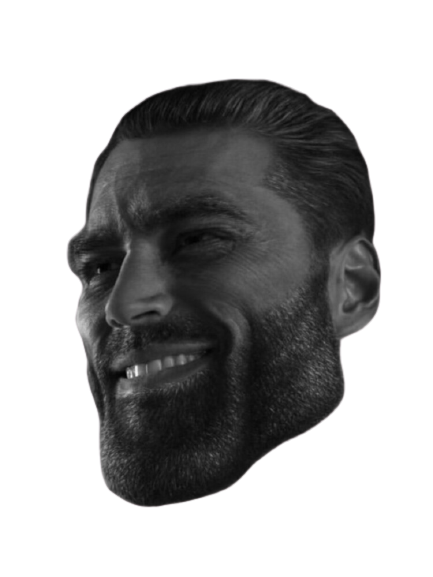
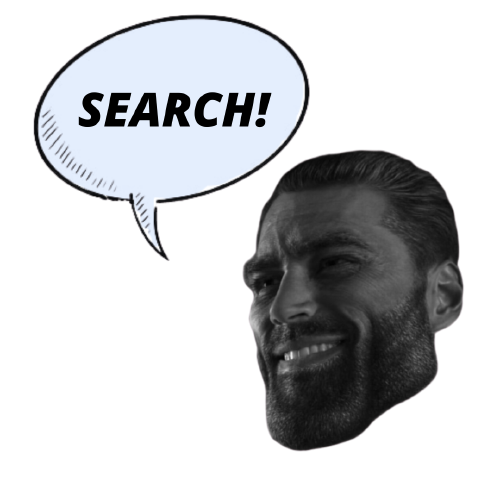
html and css file with responsive design pending

diff --git a/styles.css b/styles.css
@@ -1,3 +1,7 @@
+* {
+  margin: 0;
+  padding: 0;
+}
 body {
   background: rgb(239, 136, 46);
   background: linear-gradient(
@@ -11,24 +15,32 @@ h1 {
   color: white;
   font-family: "Montserrat", sans-serif;
   font-weight: 700;
-  font-size: 5rem;
+  font-size: 4rem;
+  margin-left: 3rem;
 }
 
 ol {
   color: white;
   font-family: "Montserrat", sans-serif;
   font-weight: 400;
-  font-size: 2rem;
+  font-size: 1.5rem;
+  margin-left: 5rem;
+  margin-top: 3rem;
+}
+
+img {
+  height: 21rem;
 }
 
 .input {
   font-size: 1.3rem;
   font-family: "Montserrat", sans-serif;
   font-weight: 400;
+  align-self: center;
 }
 .input-field {
-  width: 24rem;
-  height: 2rem;
+  width: 19rem;
+  height: 2.5rem;
   border-radius: 4px;
   background-color: white;
   border: 0px;
@@ -46,4 +58,23 @@ ol {
 
 .fa-search {
   color: white;
+}
+
+.container {
+  display: grid;
+  grid-template-columns: 50% 50%;
+  margin: 5rem 3rem 0;
+}
+
+.list {
+  grid-column: 1/2;
+  grid-row: 2/3;
+}
+
+li {
+  margin-bottom: 1rem;
+}
+
+.image {
+  justify-self: center;
 }

diff --git a/index.html b/index.html
@@ -29,13 +29,15 @@
         <a href="#">upgrade your browser</a> to improve your experience.
       </p>
     <![endif]-->
-    <header>
+    <main class="container">
       <h1>Nutrients <br />For The <br />Bros</h1>
-    </header>
-    <article>
-      <div>
+
+      <div class="list">
         <ol>
-          <li>Check for food fata</li>
+          <li>
+            Check for food <br />
+            data
+          </li>
           <li>Eat healthy</li>
           <li>keep your gains</li>
         </ol>
@@ -48,11 +50,10 @@
         </button>
       </div>
 
-      <div>
-        <img src="Images/bubble.png" alt="bubble image" />
+      <div class="image">
         <img src="Images/gigachad.png" alt="gigachad image" />
       </div>
-    </article>
+    </main>
 
     <script src="script.js" async defer></script>
   </body>
